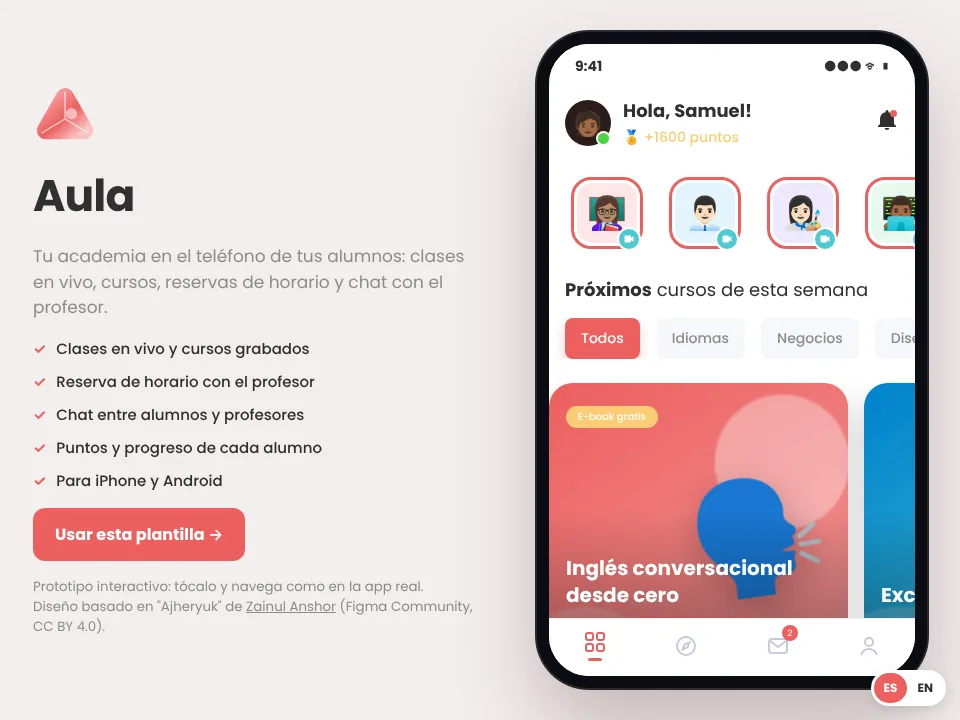
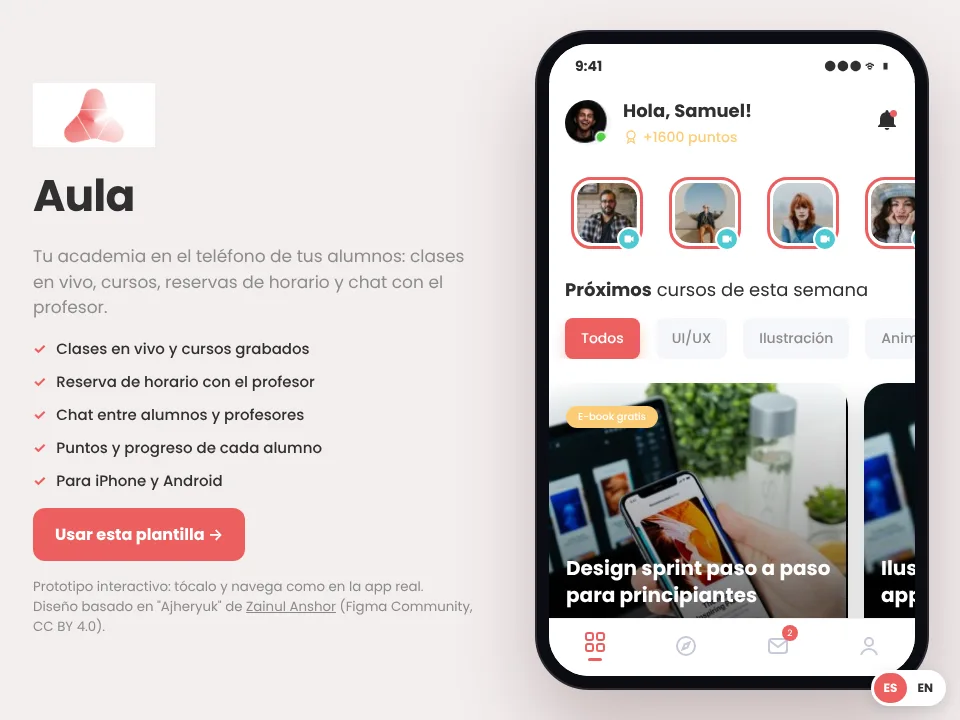
templates: Aula uses the real photos from the Figma design
Replaces the emoji avatars and illustrated covers with the original photos
(teachers, live classes, messages, course and video covers) and the original
logo mark, and restores the design's content: UI/UX, Illustration and 3D
Animation courses, its teacher and chat names. No emoji left in the app.

Claude-Session: https://claude.ai/code/session_01BbpAv9xGyuLsCGmU7UFzzj

diff --git a/public/preview/aula-app/index.html b/public/preview/aula-app/index.html
@@ -8,7 +8,7 @@
 <!--
   Hand-built preview (not generated by scripts/build_store_templates.py).
   Design based on "Ajheryuk – Live Education Mobile Apps" by Zainul Anshor (Figma Community, CC BY 4.0).
-  Adapted by Sylkit: renamed, translated, photos replaced with illustrated covers, extra screens made interactive.
+  Adapted by Sylkit: renamed, translated, kept the original photos from the design, extra screens made interactive.
 -->
 <style>
 :root{--red:#EC5F5F;--red-soft:#fde7e7;--tosqa:#4DC9D1;--blue:#0082CD;--purple:#8D5EF2;--yellow:#FCCC75;--green:#4ED442;
@@ -83,7 +83,7 @@ button{cursor:pointer}
 .lives{display:flex;gap:24px;overflow-x:auto;margin:24px -16px 0;padding:2px 16px 4px;scrollbar-width:none}
 .live{position:relative;flex-shrink:0;width:74px;height:75px}
 .live .ring{width:72px;height:72px;border-radius:20px;border:3px solid var(--red);padding:3px}
-.live .ring span{display:grid;place-items:center;width:100%;height:100%;border-radius:15px;font-size:32px}
+.live .ring span{display:block;width:100%;height:100%;border-radius:15px;overflow:hidden}
 .live .cam{position:absolute;right:-2px;bottom:-1px;width:24px;height:24px;border-radius:50%;background:var(--tosqa);border:2px solid #fff;display:grid;place-items:center}
 .chips{display:flex;gap:16px;overflow-x:auto;margin:16px -16px 0;padding:0 16px;scrollbar-width:none}
 .chip{flex-shrink:0;height:41px;padding:0 16px;border-radius:8px;background:var(--g6);color:var(--g2);font-size:14px;font-weight:500}
@@ -91,7 +91,7 @@ button{cursor:pointer}
 .cards{display:flex;gap:16px;overflow-x:auto;margin:24px -16px 0;padding:0 16px 20px;scroll-snap-type:x mandatory;scrollbar-width:none}
 .card{flex-shrink:0;width:299px;height:360px;border-radius:24px;position:relative;overflow:hidden;color:#fff;text-align:left;scroll-snap-align:start;box-shadow:0 14px 30px rgba(0,0,0,.18)}
 .art{position:absolute;inset:0}
-.card .shade{position:absolute;inset:0;background:linear-gradient(180deg,rgba(0,0,0,0) 35%,rgba(0,0,0,.6))}
+.card .shade{position:absolute;inset:0;background:linear-gradient(180deg,rgba(0,0,0,0) 45%,rgba(0,0,0,.45))}
 .card .body{position:absolute;left:17px;right:17px;bottom:20px;display:grid;gap:8px}
 .card .free{position:absolute;left:17px;top:23px}
 .pill{display:inline-flex;align-items:center;height:22px;padding:0 12px;border-radius:999px;font-size:10px;font-weight:500;color:#fff}
@@ -197,40 +197,49 @@ const T = {
   enrolled:['Mis cursos','My courses'], done:['completado','complete'], logout:['Cerrar sesión','Log out'], courses:['Cursos','Courses'], hours:['Horas','Hours'],
   today:['Hoy','Today'], tomorrow:['Mañana','Tomorrow'], yesterday:['Ayer','Yesterday'], week:['Hace 2 semanas','2 weeks ago']
 };
-const CATS=[['all',T.all],['lang',['Idiomas','Languages']],['biz',['Negocios','Business']],['design',['Diseño','Design']],['tech',['Programación','Coding']]];
+const IMG='/preview/aula-app/img/';
+const CATS=[['all',T.all],['uiux',['UI/UX','UI/UX']],['illu',['Ilustración','Illustration']],['3d',['Animación 3D','3D Animation']],['brand',['Branding','Branding']]];
+// People and photos come from the original Figma design.
 const TEACH={
-  ana:{n:'Ana Rondón',r:['Profesora de inglés','English teacher'],e:'👩🏽🏫',bg:'#fde7e7'},
-  luis:{n:'Luis Paredes',r:['Contador y formador','Accountant & trainer'],e:'👨🏻💼',bg:'#e3f4fb'},
-  vale:{n:'Valentina Ruiz',r:['Diseñadora gráfica','Graphic designer'],e:'👩🏻🎨',bg:'#efe8fd'},
-  dani:{n:'Daniel Ortega',r:['Desarrollador web','Web developer'],e:'👨🏾💻',bg:'#e6f8ee'},
-  caro:{n:'Carolina Mejía',r:['Community manager','Community manager'],e:'👩🏼💼',bg:'#fff4dc'}
+  laurel:{n:'Laurel Seilha',r:['Diseñadora de producto','Product Designer'],img:'laurel'},
+  roger:{n:'Roger Hulg',r:['Diseñador UI','UI Designer'],img:'roger'},
+  hilman:{n:'Hilman Nuris',r:['Ilustrador','Illustrator'],img:'hilman'},
+  erick:{n:'Erick Lawrence',r:['Artista 3D','3D Artist'],img:'erick'},
+  jennifer:{n:'Jennifer Dunn',r:['Diseñadora de marca','Brand Designer'],img:'jennifer'},
+  andy:{n:'Andy Warhol',r:['Director de arte','Art Director'],img:'andy'},
+  thomas:{n:'Thomas Partrey',r:['Diseñador UX','UX Designer'],img:'thomas'},
+  live1:{n:'Marco Silva',r:['En vivo ahora','Live now'],img:'live1'},
+  live2:{n:'David Kim',r:['En vivo ahora','Live now'],img:'live2'},
+  live3:{n:'Emma Rossi',r:['En vivo ahora','Live now'],img:'live3'},
+  live4:{n:'Sofía Lara',r:['En vivo ahora','Live now'],img:'live4'}
 };
 const COURSES=[
-  {id:'ingles',cat:'lang',t:['Inglés conversacional desde cero','Conversational English from zero'],d:'5h 20m',n:6,free:true,ebook:true,teach:'ana',e:'🗣',g:['#ec5f5f','#f7a1a1'],
-   about:['Aprende a presentarte, pedir, preguntar y conversar en situaciones reales, con clases en vivo cada semana.','Learn to introduce yourself, order, ask and chat in real situations, with live classes every week.'],
-   les:[[['Saludos y presentaciones','Greetings and introductions'],'38:10'],[['Pedir en un restaurante','Ordering at a restaurant'],'42:30'],[['Hablar de tu trabajo','Talking about your job'],'45:05']]},
-  {id:'excel',cat:'biz',t:['Excel para tu negocio','Excel for your business'],d:'4h 05m',n:8,teach:'luis',e:'📊',g:['#0082cd','#4dc9d1'],
-   about:['Control de ventas, inventario y gastos en hojas simples. Plantillas listas para usar desde la primera clase.','Track sales, stock and expenses with simple sheets. Ready-to-use templates from the first class.'],
-   les:[[['Tu primera hoja de ventas','Your first sales sheet'],'31:40'],[['Fórmulas que ahorran horas','Formulas that save hours'],'36:15'],[['Gráficos para tomar decisiones','Charts for decisions'],'29:50']]},
-  {id:'canva',cat:'design',t:['Diseño de publicaciones con Canva','Social posts with Canva'],d:'3h 40m',n:5,free:true,teach:'vale',e:'🎨',g:['#8d5ef2','#c3a8fb'],
-   about:['Crea flyers y publicaciones profesionales para tus redes, sin experiencia previa en diseño.','Create professional flyers and posts for your socials, no design experience needed.'],
-   les:[[['Colores y tipografías que venden','Colors and fonts that sell'],'27:20'],[['Plantillas de marca','Brand templates'],'33:45'],[['Historias que enganchan','Stories that hook'],'25:10']]},
-  {id:'web',cat:'tech',t:['Tu primera página web','Your first website'],d:'6h 10m',n:9,teach:'dani',e:'💻',g:['#303030','#6b6b6b'],
-   about:['HTML y CSS paso a paso hasta publicar tu propia página con dominio.','HTML and CSS step by step until you publish your own site with a domain.'],
-   les:[[['Cómo funciona la web','How the web works'],'22:30'],[['Tu primera página','Your first page'],'48:00'],[['Publicar con tu dominio','Publishing on your domain'],'35:25']]},
-  {id:'insta',cat:'biz',t:['Vende más por Instagram','Sell more on Instagram'],d:'2h 55m',n:4,ebook:true,teach:'caro',e:'📱',g:['#fcb045','#fd8b5f'],
-   about:['Estrategia de contenido, respuestas que cierran ventas y anuncios con poco presupuesto.','Content strategy, replies that close sales and ads on a small budget.'],
-   les:[[['Perfil que convierte','A profile that converts'],'24:10'],[['Contenido para vender','Content that sells'],'31:30'],[['Anuncios con $5','Ads with $5'],'28:45']]}
+  {id:'sprint',cat:'uiux',t:['Design sprint paso a paso para principiantes','Step design sprint for beginner'],d:'5h 21m',n:6,free:true,ebook:true,teach:'laurel',img:'course',pos:'50% 50%',
+   about:['En este curso te muestro, paso a paso y día a día, el proceso para crear mejores productos, igual que lo hacen Google, Slack, KLM y muchos otros.','In this course I\'ll show you, step by step and day by day, the process to build better products, just as Google, Slack, KLM and many others do.'],
+   les:[[['Cómo obtener feedback de tus productos en solo 5 días','How to get feedback on their products in just 5 days'],'04:10m'],[['Del mapa del problema al prototipo','From problem map to prototype'],'06:45m'],[['Cómo implementar lo que aprendiste','How to implement what you learned'],'05:30m']]},
+  {id:'illu',cat:'illu',t:['Ilustración básica para apps','Basic illustration for apps'],d:'3h 40m',n:5,teach:'hilman',img:'video',pos:'30% 50%',
+   about:['Crea ilustraciones simples y con estilo propio para tus pantallas, onboarding y redes.','Create simple illustrations with your own style for screens, onboarding and socials.'],
+   les:[[['Formas y trazos básicos','Basic shapes and strokes'],'05:20m'],[['Color y luz','Color and light'],'07:10m'],[['Exportar para la app','Exporting for the app'],'04:05m']]},
+  {id:'3d',cat:'3d',t:['Animación 3D desde cero','3D animation from scratch'],d:'6h 10m',n:9,teach:'erick',img:'course',pos:'50% 80%',
+   about:['Modela, ilumina y anima tus primeros objetos 3D para presentaciones y anuncios.','Model, light and animate your first 3D objects for presentations and ads.'],
+   les:[[['Tu primer objeto 3D','Your first 3D object'],'08:15m'],[['Materiales y luces','Materials and lights'],'09:40m'],[['Animación simple','Simple animation'],'07:25m']]},
+  {id:'ui',cat:'uiux',t:['Diseño de interfaces que convierten','UI design that converts'],d:'4h 05m',n:8,free:true,teach:'roger',img:'video',pos:'70% 50%',
+   about:['Jerarquía, color y componentes para pantallas claras que la gente entiende al primer vistazo.','Hierarchy, color and components for clear screens people get at first glance.'],
+   les:[[['Jerarquía visual','Visual hierarchy'],'06:00m'],[['Sistemas de color','Color systems'],'05:35m'],[['Componentes reutilizables','Reusable components'],'08:20m']]},
+  {id:'brand',cat:'brand',t:['Crea la identidad de tu marca','Build your brand identity'],d:'2h 55m',n:4,ebook:true,teach:'jennifer',img:'course',pos:'20% 30%',
+   about:['Logo, paleta y tipografías coherentes para que tu marca se reconozca en todas partes.','Logo, palette and fonts that work together so your brand is recognized everywhere.'],
+   les:[[['Qué hace fuerte a una marca','What makes a brand strong'],'04:50m'],[['Logo y variaciones','Logo and variations'],'06:30m'],[['Manual de marca','Brand guidelines'],'05:15m']]}
 ];
-const LIVE=['ana','luis','vale','dani','caro'];
-const TIMES=['08:00','09:30','11:00','14:00','15:30','17:00','18:30','19:45','21:00'];
-const OFF=new Set([1,4,8]);
+const LIVE=['live1','live2','live3','live4'];
+const TIMES=['14:45','09:25','09:45','08:55','19:45','14:40','10:45','20:40','19:35'];
+const OFF=new Set([1,5,6]);
 const MSGS=[
-  {w:'ana',m:['¿Te quedó clara la tarea de hoy? Cualquier duda me escribes 🙂','Was today\'s homework clear? Message me with any question 🙂'],t:'15 min',c:2,on:true},
-  {w:'luis',m:['Te envié la plantilla de inventario.','I sent you the inventory template.'],t:T.yesterday},
-  {w:'vale',m:['¿Viste la clase gratis de historias ayer?','Did you watch the free stories class yesterday?'],t:T.yesterday,c:1,on:true},
-  {w:'dani',m:['Tu página quedó muy bien, ¡a publicarla!','Your page looks great, time to publish it!'],t:T.week},
-  {w:'caro',m:['Jaja sí, eso pasa mucho 😄','Haha yes, that happens a lot 😄'],t:'14/10'}
+  {w:'roger',m:['Hola, ¿te puedo preguntar algo? Necesito tu ayuda, por favor.','Hey, can I ask something? I need your help please'],t:'15 min',c:4},
+  {w:'hilman',m:['¡Gracias por la información!','Thanks for your information dude!'],t:T.yesterday},
+  {w:'erick',m:['¿Tomaste la clase gratis de ilustración ayer?','Did you take the free illustration class yesterday?'],t:T.yesterday,c:1},
+  {w:'jennifer',m:['Hola Samuel, ¿dónde conseguiste tus puntos? ¿Los cambiamos?','Hey Samuel, where did you get your points? Can we exchange?'],t:T.week,c:2},
+  {w:'andy',m:['Jaja sí, así es.','That\'s true bro, hahaha'],t:'14/08'},
+  {w:'thomas',m:['Te paso los archivos del curso esta tarde.','I\'ll send you the course files this afternoon.'],t:'13/08'}
 ];
 
 // ---- icons
@@ -243,6 +252,7 @@ const I={
  heart:'<svg width="24" height="24" viewBox="0 0 24 24" fill="none" stroke="currentColor" stroke-width="2"><path d="M12 20s-7-4.4-7-10a4 4 0 0 1 7-2.6A4 4 0 0 1 19 10c0 5.6-7 10-7 10z"/></svg>',
  heartF:'<svg width="24" height="24" viewBox="0 0 24 24" fill="currentColor"><path d="M12 20s-7-4.4-7-10a4 4 0 0 1 7-2.6A4 4 0 0 1 19 10c0 5.6-7 10-7 10z"/></svg>',
  bell:'<svg width="24" height="24" viewBox="0 0 24 24" fill="currentColor"><path d="M12 22a2.5 2.5 0 0 0 2.4-2h-4.8A2.5 2.5 0 0 0 12 22zm7-6V11a7 7 0 0 0-5.5-6.8V3.5a1.5 1.5 0 0 0-3 0v.7A7 7 0 0 0 5 11v5l-2 2v1h18v-1z"/></svg>',
+ award:'<svg width="16" height="16" viewBox="0 0 24 24" fill="none" stroke="currentColor" stroke-width="2" style="vertical-align:-3px"><circle cx="12" cy="9" r="6"/><path d="m8.5 14-1.5 7 5-3 5 3-1.5-7"/></svg>',
  clock:'<svg width="14" height="14" viewBox="0 0 24 24" fill="none" stroke="currentColor" stroke-width="2.4"><circle cx="12" cy="13" r="8"/><path d="M12 9v4l2.5 2.5M9 2h6"/></svg>',
  cam:'<svg width="12" height="12" viewBox="0 0 24 24" fill="#fff"><path d="M3 7a2 2 0 0 1 2-2h9a2 2 0 0 1 2 2v2.5l5-3v11l-5-3V17a2 2 0 0 1-2 2H5a2 2 0 0 1-2-2z"/></svg>',
  play:'<svg width="26" height="26" viewBox="0 0 24 24" fill="#8a3a1c"><path d="M8 5v14l11-7z"/></svg>',
@@ -254,12 +264,11 @@ const I={
  fb:'<svg width="24" height="24" viewBox="0 0 24 24"><circle cx="12" cy="12" r="11" fill="#fff"/><path fill="#0082CD" d="M13.4 21v-7.2h2.4l.4-2.8h-2.8V9.2c0-.8.3-1.4 1.4-1.4h1.5V5.3c-.3 0-1.2-.1-2.2-.1-2.2 0-3.6 1.3-3.6 3.7V11H8v2.8h2.5V21z"/></svg>',
  g:'<svg width="22" height="22" viewBox="0 0 48 48"><path fill="#FFC107" d="M43.6 20.5H42V20H24v8h11.3C33.7 32.7 29.2 36 24 36c-6.6 0-12-5.4-12-12s5.4-12 12-12c3.1 0 5.8 1.2 7.9 3.1l5.7-5.7C34 6.1 29.3 4 24 4 12.9 4 4 12.9 4 24s8.9 20 20 20 20-8.9 20-20c0-1.3-.1-2.4-.4-3.5z"/><path fill="#FF3D00" d="m6.3 14.7 6.6 4.8C14.7 15.1 19 12 24 12c3.1 0 5.8 1.2 7.9 3.1l5.7-5.7C34 6.1 29.3 4 24 4 16.3 4 9.7 8.3 6.3 14.7z"/><path fill="#4CAF50" d="M24 44c5.2 0 9.9-2 13.4-5.2l-6.2-5.2C29.2 35.1 26.7 36 24 36c-5.2 0-9.6-3.3-11.3-8l-6.5 5C9.5 39.6 16.2 44 24 44z"/><path fill="#1976D2" d="M43.6 20.5H42V20H24v8h11.3a12 12 0 0 1-4.1 5.6l6.2 5.2C37 39.2 44 34 44 24c0-1.3-.1-2.4-.4-3.5z"/></svg>'
 };
-const LOGO=(s)=>`<svg class="logo" width="${s}" height="${s}" viewBox="0 0 100 100" aria-hidden="true"><defs><linearGradient id="lg" x1="0" y1="0" x2="1" y2="1"><stop offset="0" stop-color="#f7a6a6"/><stop offset=".55" stop-color="#ec5f5f"/><stop offset="1" stop-color="#f9c4c4"/></linearGradient></defs>
-<polygon points="50,22 80,74 20,74" fill="url(#lg)" stroke="url(#lg)" stroke-width="28" stroke-linejoin="round"/>
-<path d="M50 56 50 14M50 56 86 78M50 56 14 78" stroke="#fff" stroke-opacity=".6" stroke-width="2.5" fill="none" stroke-linecap="round"/><circle cx="60" cy="48" r="9" fill="#fff" opacity=".55"/></svg>`;
-const art=(c,big)=>`<div class="art" style="background:radial-gradient(circle at 78% 22%,rgba(255,255,255,.35) 0 18%,transparent 19%),radial-gradient(circle at 12% 88%,rgba(255,255,255,.18) 0 22%,transparent 23%),linear-gradient(145deg,${c.g[0]},${c.g[1]})"><span style="position:absolute;right:${big?'50%':'22px'};top:${big?'50%':'70px'};transform:${big?'translate(50%,-50%)':'rotate(-8deg)'};font-size:${big?90:110}px;filter:drop-shadow(0 10px 18px rgba(0,0,0,.25));opacity:${big?.35:1}">${c.e}</span></div>`;
+const LOGO=(s)=>`<img class="logo" src="${IMG}logo.png" width="${Math.round(s*1.9)}" height="${s}" alt="" style="object-fit:contain">`;
+const art=(c)=>`<img class="art" src="${IMG}${c.img}.jpg" alt="" style="width:100%;height:100%;object-fit:cover;object-position:${c.pos}">`;
 const tagsFor=c=>`<div class="tags"><span class="tag" style="background:var(--tosqa)">${c.n} ${L(T.lessons)}</span><span class="tag" style="background:var(--blue)">${esc(L(CATS.find(x=>x[0]===c.cat)[1]))}</span>${c.free?`<span class="tag" style="background:var(--purple)">${L(T.free)}</span>`:''}</div>`;
-const av=(k,on,size)=>{const t=TEACH[k];return `<span class="avatar${on?' on':''}" style="background:${t.bg}${size?`;width:${size}px;height:${size}px;font-size:${size/2}px`:''}">${t.e}</span>`};
+const av=(k,on,size)=>{const t=TEACH[k];const z=size||46;return `<span class="avatar" style="width:${z}px;height:${z}px"><img src="${IMG}${t.img}.jpg" alt="" style="width:100%;height:100%;border-radius:50%;object-fit:cover"></span>`};
+const me=(z)=>`<span class="avatar" style="width:${z}px;height:${z}px"><img src="${IMG}samuel.jpg" alt="Samuel" style="width:100%;height:100%;border-radius:50%;object-fit:cover"></span>`;
 
 // ---- state
 const S={screen:'welcome',tab:'home',cat:'all',course:null,sheet:false,time:null,fav:new Set(),chat:null,chatLog:{},toast:''};
@@ -295,8 +304,8 @@ const V={
    <p class="center muted" style="font-size:14px;margin:16px 0 0">${L(T.terms)}</p>
    <p class="foot">${L(T.haveAcc)} <button class="link" data-go="login">${L(T.login)}</button></p></div></div>`,
  home:()=>{const list=COURSES.filter(c=>S.cat==='all'||c.cat===S.cat);return `<div class="screen">
-   <div class="top"><div class="bio">${`<span class="avatar on" style="background:#2a1d1a;width:46px;height:46px">🧑🏾</span>`}<div><b style="font-size:18px;font-weight:600">${L(T.hi)}!</b><small style="color:var(--yellow);font-size:14px;font-weight:500;opacity:1">🏅 +1600 ${L(T.points)}</small></div></div><span class="bell">${I.bell}</span></div>
-   <div class="lives">${LIVE.map(k=>`<button class="live" data-chat="${k}" aria-label="${TEACH[k].n}"><div class="ring"><span style="background:${TEACH[k].bg}">${TEACH[k].e}</span></div><span class="cam">${I.cam}</span></button>`).join('')}</div>
+   <div class="top"><div class="bio">${me(46)}<div><b style="font-size:18px;font-weight:600">${L(T.hi)}!</b><small style="color:var(--yellow);font-size:14px;font-weight:500;opacity:1">${I.award} +1600 ${L(T.points)}</small></div></div><span class="bell">${I.bell}</span></div>
+   <div class="lives">${LIVE.map(k=>`<button class="live" data-chat="${k}" aria-label="${TEACH[k].n}"><div class="ring"><span><img src="${IMG}${TEACH[k].img}.jpg" alt="" style="width:100%;height:100%;object-fit:cover;border-radius:15px"></span></div><span class="cam">${I.cam}</span></button>`).join('')}</div>
    <h2 class="h" style="font-size:18px;font-weight:400;margin-top:24px"><b style="font-weight:600">${L(T.upcoming)}</b> ${L(T.thisWeek)}</h2>
    <div class="chips">${CATS.map(([id,n])=>`<button class="chip" data-cat="${id}" aria-pressed="${S.cat===id}">${esc(L(n))}</button>`).join('')}</div>
    <div class="cards">${list.map(c=>`<button class="card" data-course="${c.id}">${art(c)}<div class="shade"></div>${c.ebook?`<span class="pill free" style="background:var(--yellow)">${L(T.ebook)}</span>`:''}
@@ -305,7 +314,7 @@ const V={
    <div class="dots">${list.slice(0,3).map((_,i)=>`<i class="${i?'':'on'}"></i>`).join('')}</div></div>${tabs()}`},
  course:()=>{const c=COURSES.find(x=>x.id===S.course),t=TEACH[c.teach],fav=S.fav.has(c.id);return `<div class="screen">
    <div class="top"><button class="icobtn" data-back aria-label="back">${I.back}</button><h1 class="h" style="font-size:18px">${L(T.detail)}</h1><button style="color:var(--red)" data-fav="${c.id}" aria-pressed="${fav}" aria-label="favorite">${fav?I.heartF:I.heart}</button></div>
-   <div class="video" style="margin-top:32px">${art(c,true)}<span class="play">${I.play}</span></div>
+   <div class="video" style="margin-top:32px">${art(c)}<span class="play">${I.play}</span></div>
    <h2 class="h" style="font-size:24px;margin-top:24px">${esc(L(c.t))}</h2>
    <div style="margin-top:16px">${tagsFor(c)}</div>
    <p class="muted" style="font-size:14px;line-height:1.5;margin:8px 0 0">${esc(L(c.about))}</p>
@@ -316,19 +325,19 @@ const V={
    ${S.sheet?sheet(c):''}`},
  explore:()=>`<div class="screen"><h1 class="h" style="font-size:22px">${L(T.explore)}</h1>
    <div class="search"><input placeholder="${L(T.searchHere)}" aria-label="${L(T.searchHere)}" data-filter><span>${I.search}</span></div>
-   <div class="stack" style="margin-top:20px" id="list">${COURSES.map(c=>`<button class="row" data-course="${c.id}" data-q="${esc((L(c.t)+' '+TEACH[c.teach].n).toLowerCase())}"><span class="th" style="background:linear-gradient(145deg,${c.g[0]},${c.g[1]})">${c.e}</span><span style="flex:1;min-width:0"><b>${esc(L(c.t))}</b><small>${esc(TEACH[c.teach].n)} · ${c.n} ${L(T.lessons)} · ${c.d}</small></span>${c.free?`<span class="tag" style="background:var(--purple)">${L(T.free)}</span>`:''}</button>`).join('')}</div></div>${tabs()}`,
- messages:()=>`<div class="screen"><div class="top"><div class="bio"><span class="avatar on" style="background:#2a1d1a">🧑🏾</span><div><b style="font-size:18px">${L(T.myMsgs)}</b><small class="muted" style="font-size:14px;opacity:1">${L(T.newMsgs)}</small></div></div><span class="bell">${I.bell}</span></div>
+   <div class="stack" style="margin-top:20px" id="list">${COURSES.map(c=>`<button class="row" data-course="${c.id}" data-q="${esc((L(c.t)+' '+TEACH[c.teach].n).toLowerCase())}"><span class="th" style="overflow:hidden"><img src="${IMG}${c.img}.jpg" alt="" style="width:100%;height:100%;object-fit:cover;object-position:${c.pos}"></span><span style="flex:1;min-width:0"><b>${esc(L(c.t))}</b><small>${esc(TEACH[c.teach].n)} · ${c.n} ${L(T.lessons)} · ${c.d}</small></span>${c.free?`<span class="tag" style="background:var(--purple)">${L(T.free)}</span>`:''}</button>`).join('')}</div></div>${tabs()}`,
+ messages:()=>`<div class="screen"><div class="top"><div class="bio">${me(46)}<div><b style="font-size:18px">${L(T.myMsgs)}</b><small class="muted" style="font-size:14px;opacity:1">${L(T.newMsgs)}</small></div></div><span class="bell">${I.bell}</span></div>
    <div class="search"><input placeholder="${L(T.searchHere)}" aria-label="${L(T.searchHere)}"><span>${I.search}</span></div>
    <div style="margin-top:8px">${MSGS.map(m=>`<button class="msg" data-chat="${m.w}">${av(m.w,m.on)}<span class="txt"><b>${esc(TEACH[m.w].n)}</b><p>${esc(L(m.m))}</p></span><span class="meta"><span>${esc(L(m.t))}</span>${m.c?`<span class="badge">${m.c}</span>`:''}</span></button>`).join('')}</div></div>${tabs()}`,
  chat:()=>{const t=TEACH[S.chat],m=MSGS.find(x=>x.w===S.chat),log=S.chatLog[S.chat]||[];return `<div class="screen" style="padding-bottom:12px">
    <div class="top"><button class="icobtn" data-back aria-label="back">${I.back}</button><div class="bio" style="flex:1">${av(S.chat,true)}<div><b>${esc(t.n)}</b><small class="muted" style="opacity:1">${esc(L(t.r))}</small></div></div></div>
    <div class="stack" style="margin-top:24px;gap:10px"><div class="bubble them">${esc(L(m?m.m:['¡Hola! Ya empieza la clase en vivo, ¿te unes?','Hi! The live class is starting, joining?']))}</div>${log.map(x=>`<div class="bubble me">${esc(x)}</div>`).join('')}</div></div>
    <form class="compose" data-form="chat"><input placeholder="${L(T.typeMsg)}" aria-label="${L(T.typeMsg)}"><button type="submit" aria-label="send">${I.send}</button></form>`},
- profile:()=>`<div class="screen"><div class="center" style="padding-top:12px"><span class="avatar on" style="background:#2a1d1a;width:84px;height:84px;font-size:44px;margin:0 auto">🧑🏾</span>
-   <h1 class="h" style="font-size:20px;margin-top:12px">Samuel Herrera</h1><p class="muted" style="margin:2px 0 0;font-size:14px">samuel@correo.com</p></div>
+ profile:()=>`<div class="screen"><div class="center" style="padding-top:12px"><div style="width:84px;margin:0 auto">${me(84)}</div>
+   <h1 class="h" style="font-size:20px;margin-top:12px">Samuel Herickson</h1><p class="muted" style="margin:2px 0 0;font-size:14px">samuel.herickson@gmail.com</p></div>
    <div class="stat"><div><b>3</b><small>${L(T.courses)}</small></div><div><b>12</b><small>${L(T.hours)}</small></div><div><b>1600</b><small>${L(T.points)}</small></div></div>
    <h2 class="h" style="font-size:16px;margin-bottom:12px">${L(T.enrolled)}</h2>
-   <div class="stack" style="gap:12px">${[['ingles',72],['excel',40],['canva',15]].map(([id,p])=>{const c=COURSES.find(x=>x.id===id);return `<button class="row" data-course="${id}"><span class="th" style="background:linear-gradient(145deg,${c.g[0]},${c.g[1]})">${c.e}</span><span style="flex:1;min-width:0"><b>${esc(L(c.t))}</b><small>${p}% ${L(T.done)}</small><div class="bar"><i style="width:${p}%"></i></div></span></button>`}).join('')}</div>
+   <div class="stack" style="gap:12px">${[['sprint',72],['illu',40],['3d',15]].map(([id,p])=>{const c=COURSES.find(x=>x.id===id);return `<button class="row" data-course="${id}"><span class="th" style="overflow:hidden"><img src="${IMG}${c.img}.jpg" alt="" style="width:100%;height:100%;object-fit:cover;object-position:${c.pos}"></span><span style="flex:1;min-width:0"><b>${esc(L(c.t))}</b><small>${p}% ${L(T.done)}</small><div class="bar"><i style="width:${p}%"></i></div></span></button>`}).join('')}</div>
    <button class="btn gg" style="margin-top:24px" data-go="login">${L(T.logout)}</button></div>${tabs()}`
 };
 function sheet(c){
@@ -336,7 +345,7 @@ function sheet(c){
   return `<div class="overlay" data-close><div class="sheet" role="dialog" aria-label="${L(T.avail)}"><div class="grab"></div>
    <div class="top"><div><h2 class="h" style="font-size:18px">${L(T.avail)}</h2><p class="muted" style="margin:4px 0 0;font-size:16px">${L(T.adjust)}</p></div><span class="icobtn" style="background:var(--red);box-shadow:0 6px 14px rgba(236,95,95,.35)">${I.cal}</span></div>
    <div class="times">${TIMES.map((t,i)=>`<button class="time" data-time="${i}" ${OFF.has(i)?'disabled':''} aria-pressed="${S.time===i}">${t}</button>`).join('')}</div>
-   <p class="lbl">${L(T.email)}</p><label class="field"><input type="email" value="samuel@correo.com" aria-label="${L(T.email)}"></label>
+   <p class="lbl">${L(T.email)}</p><label class="field"><input type="email" value="samuel.herickson@gmail.com" aria-label="${L(T.email)}"></label>
    <p class="lbl" style="margin-top:16px">${L(T.phone)}</p><label class="field"><input type="tel" value="+58 412 000 0000" aria-label="${L(T.phone)}"></label>
    <p class="lbl" style="margin-top:16px">${L(T.when)}</p><div class="check"><i>${S.time!=null?'✓':''}</i>${esc(pick)}</div>
    <button class="btn red" style="margin-top:24px;${S.time==null?'opacity:.5':''}" data-book ${S.time==null?'disabled':''}>${L(T.confirm)}</button></div></div>`;

diff --git a/scripts/template_data_figma.py b/scripts/template_data_figma.py
@@ -7,7 +7,7 @@ and inside the preview.
 These previews are hand-built (public/preview/<slug>/index.html), so `custom: True` tells
 build_store_templates.py to list them without overwriting the page.
 Before adding one: check the Community page for extra license terms, use only free files,
-and replace the design's stock photos and paid fonts with our own.
+and keep the original photos from the design (no emoji or cartoon placeholders).
 """
 
 APP_PRODUCT = "app-movil-a-medida"
